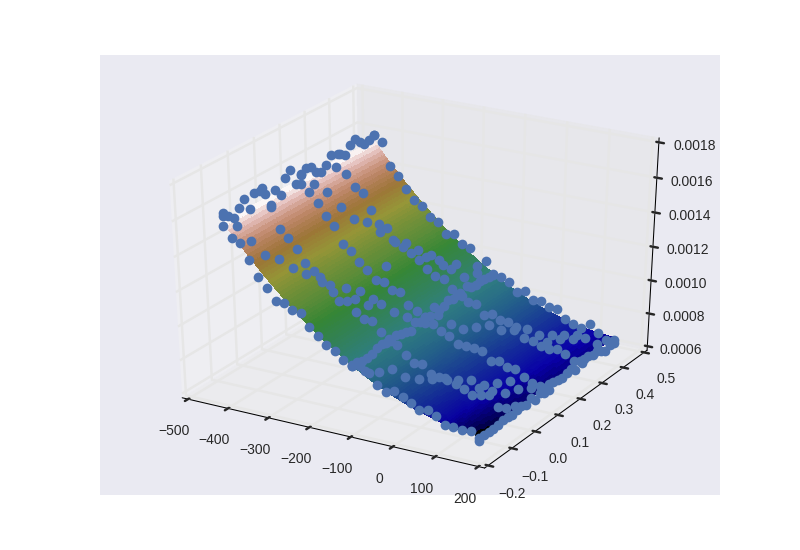
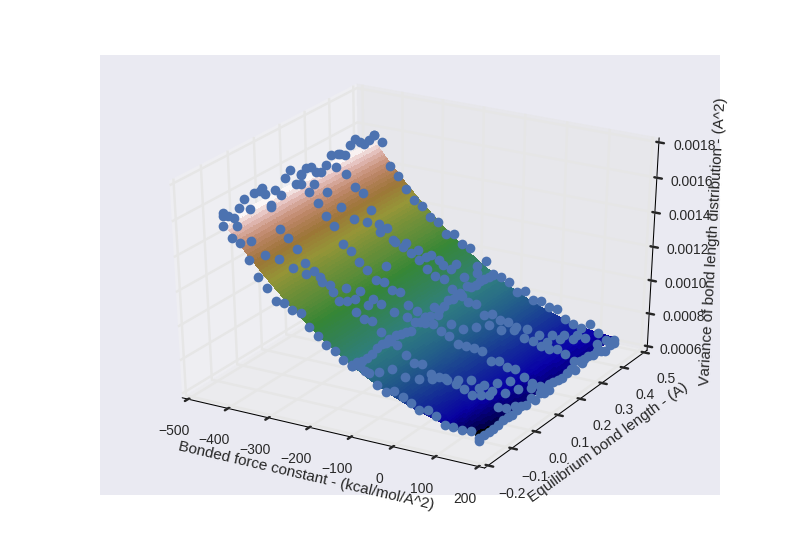
Axes labels to bond O(theta) plots with surface fits

diff --git a/single-molecule-property-generation/graph_bl.py b/single-molecule-property-generation/graph_bl.py
@@ -66,8 +66,14 @@ zz_var = np.reshape(np.dot(GG, m_var), xx.shape)
 fg, ax = plt.subplots(subplot_kw=dict(projection='3d'))
 ls = LightSource(270, 45)
 rgb = ls.shade(zz_av, cmap=cm.gist_earth, vert_exag=0.1, blend_mode='soft')
+#heatmap = ax.pcolor(zz_av, cmap=rgb)                  
+#plt.colorbar(mappable=heatmap)    # put the major ticks at the middle of each cell
 surf = ax.plot_surface(xx, yy, zz_av, rstride=1, cstride=1, facecolors=rgb,
                        linewidth=0, antialiased=False, shade=False)
+
+ax.set_xlabel('Bonded force constant - (kcal/mol/A^2)')
+ax.set_ylabel('Equilibrium bond length - (A)')
+ax.set_zlabel('Average of bond length distribution - (A)')
 ax.plot3D(x_av, y_av, z_av, "o")
 
 fg.canvas.draw()
@@ -77,13 +83,28 @@ plt.savefig('bond_length_average_vs_k_length_w_fit.png')
 fg, ax = plt.subplots(subplot_kw=dict(projection='3d'))
 ls = LightSource(270, 45)
 rgb = ls.shade(zz_var, cmap=cm.gist_earth, vert_exag=0.1, blend_mode='soft')
-surf = ax.plot_surface(xx, yy, zz_var, rstride=1, cstride=1, facecolors=rgb,
+surf = ax.plot_surface(xx, yy, zz_var,cmap=cm.gist_earth, rstride=1, cstride=1, facecolors=rgb,
                        linewidth=0, antialiased=False, shade=False)
+#fg.colorbar(surf, shrink=0.5, aspect=5)
+ax.set_xlabel('Bonded force constant - (kcal/mol/A^2)')
+ax.set_ylabel('Equilibrium bond length - (A)')
+ax.set_zlabel('Variance of bond length distribution - (A^2)')
 ax.plot3D(x_var, y_var, z_var, "o")
 
 fg.canvas.draw()
 plt.savefig('bond_length_variance_vs_k_length_w_fit.png')
 
+x_av,res_av,rank_av,s_av = np.linalg.lstsq(G, z_av)
+x_var,res_var,rank_var,s_var = np.linalg.lstsq(G, z_var)
+
+print x_av
+print x_var
+
+print rank_av
+print rank_var
+
+print res_av
+print res_var
 sys.exit()
 
 fig = plt.figure()
